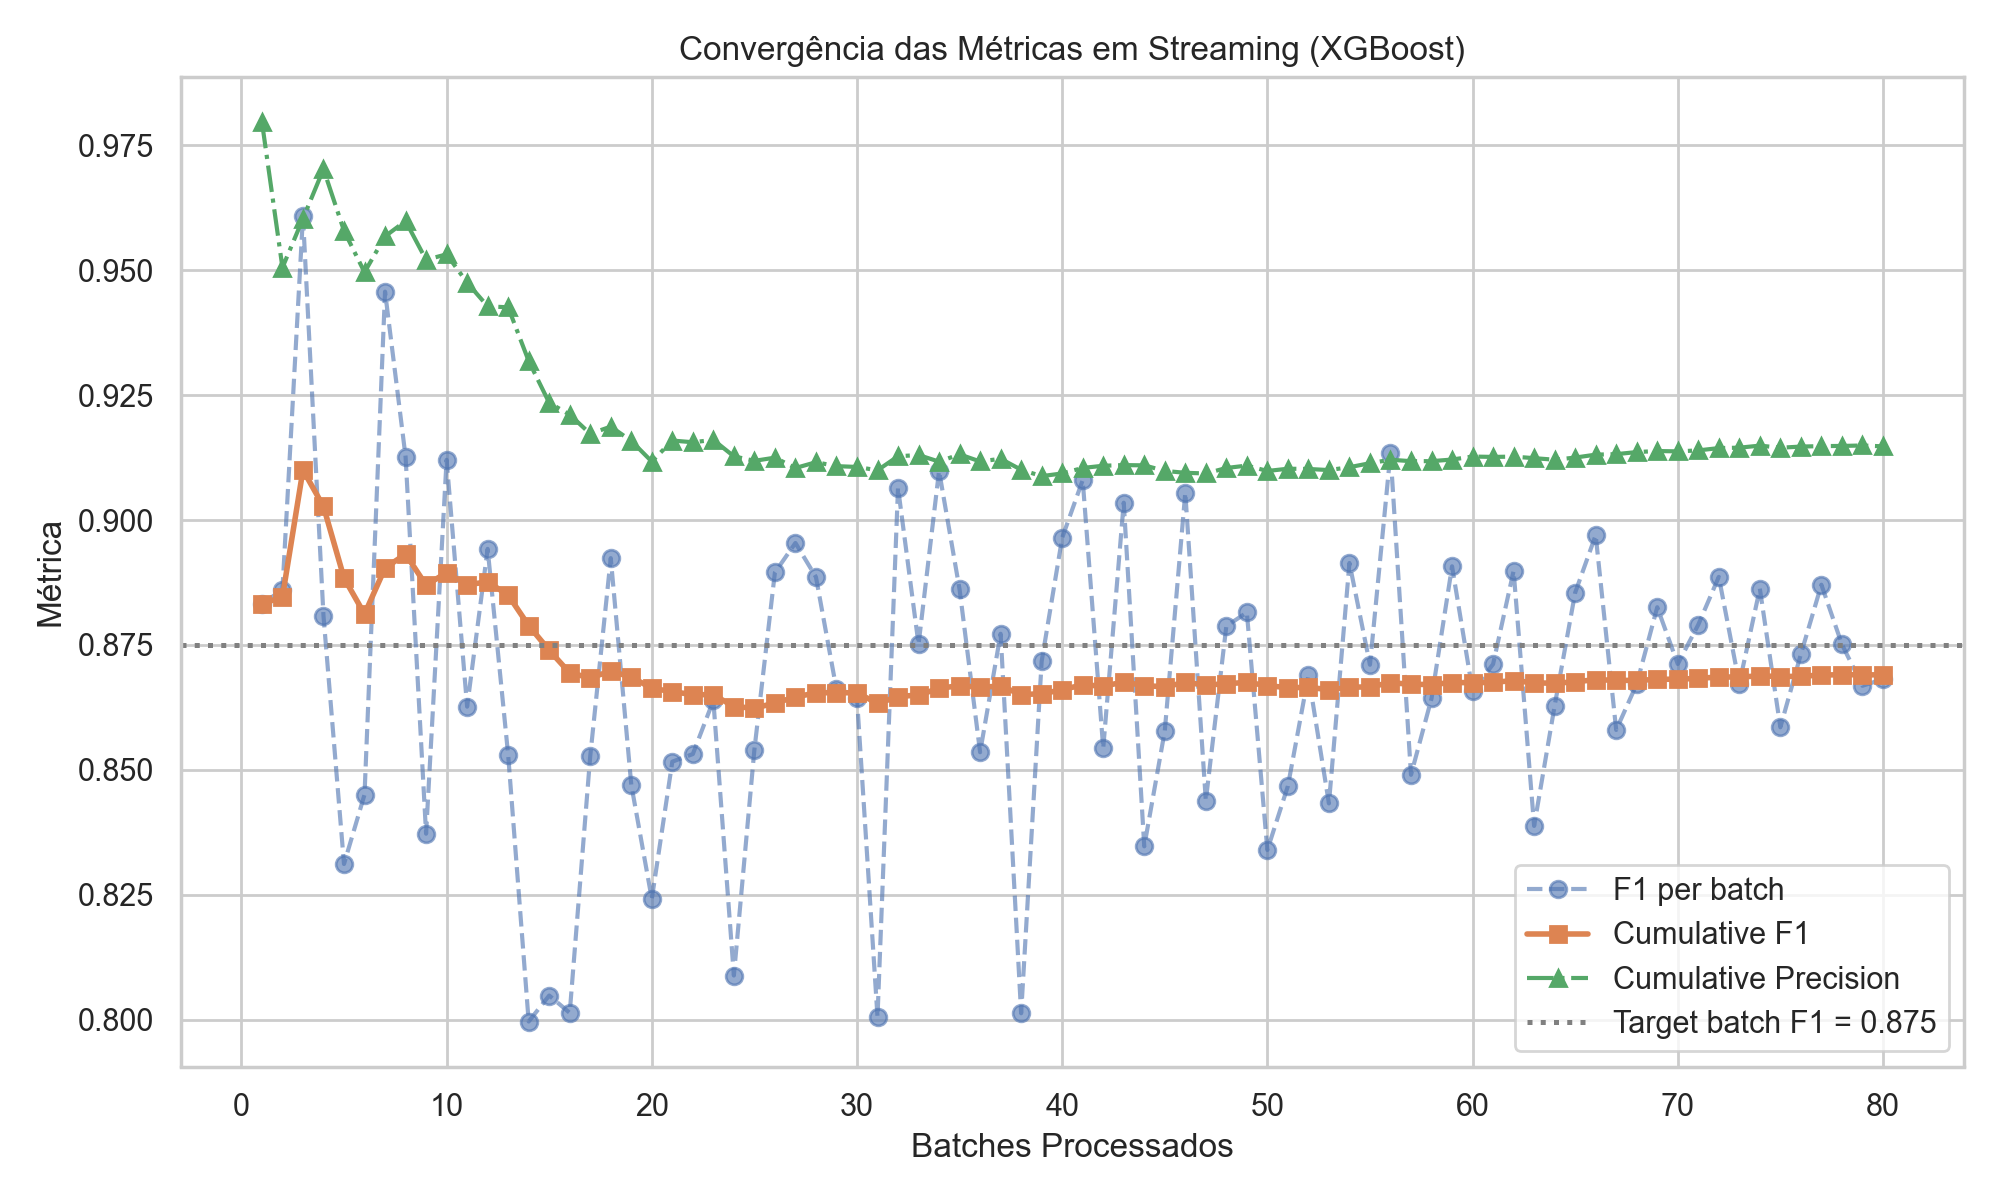
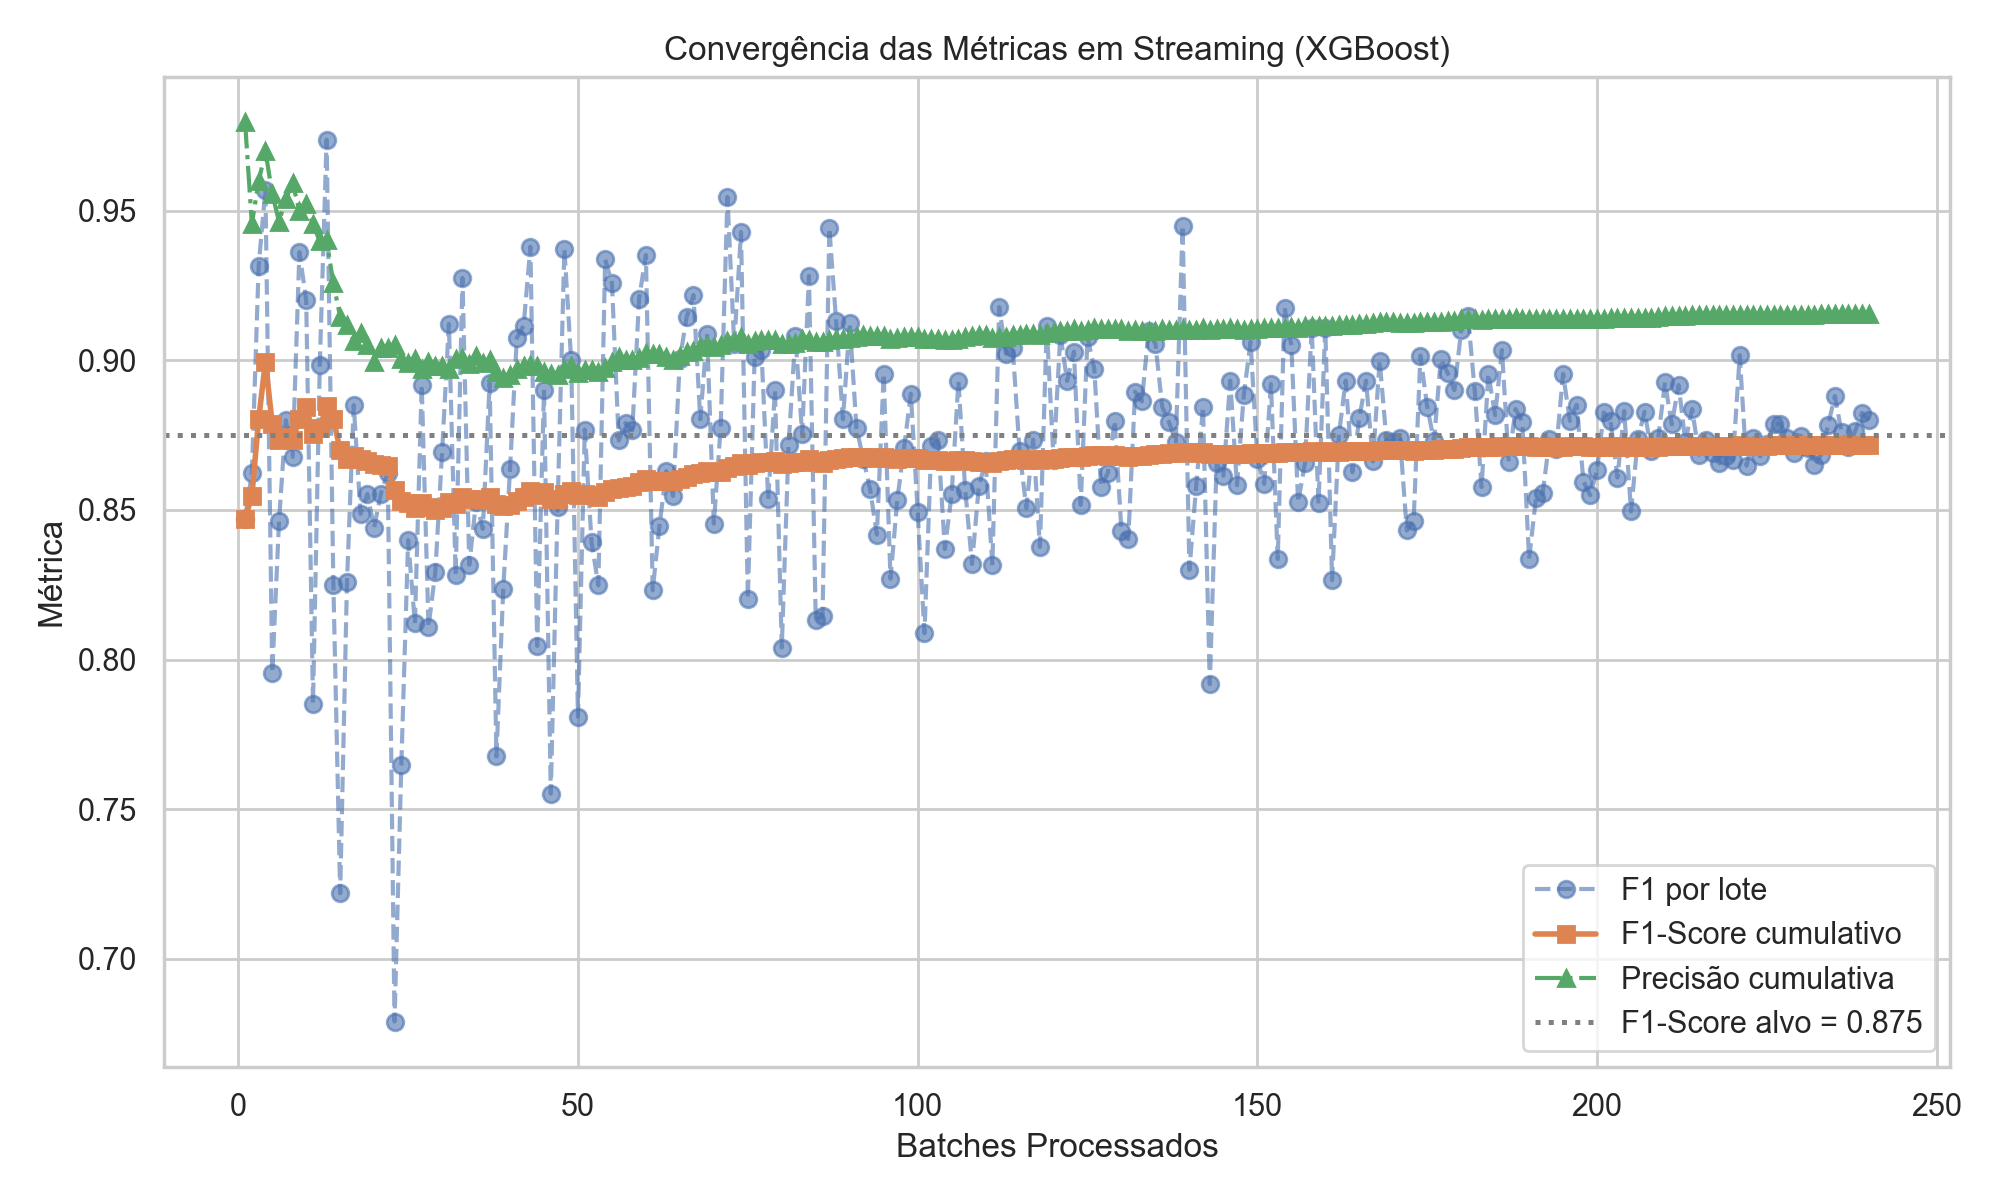
feat: threshold analysis plot, CSV export fix, and streaming convergence tweaks
- Add scripts/threshold_analysis.py and its generated figure
- Convert vector columns to strings before writing test set CSV
- Lengthen simulated streaming convergence and translate labels to Portuguese
- Stop tracking .DS_Store and expand .gitignore

diff --git a/src/plots/plot_streaming_convergence_xgb.py b/src/plots/plot_streaming_convergence_xgb.py
@@ -28,7 +28,8 @@ OUTPUT_FILE = os.path.join(OUTPUT_DIR, "streaming_convergence_xgb.png")
 
 # Simulation parameters
 np.random.seed(42)
-NUM_BATCHES = 80
+# Increase number of batches to show clearer convergence
+NUM_BATCHES = 240
 TARGET_F1 = 0.875  # final batch-level F1 to converge to
 BASE_PRECISION = 0.92
 BASE_RECALL = 0.83
@@ -38,12 +39,14 @@ BASE_RECALL = 0.83
 
 batch_indices = np.arange(1, NUM_BATCHES + 1)
 
-# Noise schedule: larger noise at start, decreases over time
-noise_scale = np.linspace(0.08, 0.01, NUM_BATCHES)
+
+# Noise schedule: larger noise at start, decreases over time — longer tail for smoother convergence
+noise_scale = np.linspace(0.10, 0.005, NUM_BATCHES)
 
 # Simulate bias that slowly pulls metrics to the base values
-precision_drift = BASE_PRECISION + (np.random.randn(NUM_BATCHES) * noise_scale) + (1.0 / (batch_indices ** 0.7)) * 0.02
-recall_drift = BASE_RECALL + (np.random.randn(NUM_BATCHES) * noise_scale) - (1.0 / (batch_indices ** 0.6)) * 0.01
+# Reduce the early bias magnitude so the per-batch values can oscillate around the BASE values
+precision_drift = BASE_PRECISION + (np.random.randn(NUM_BATCHES) * noise_scale) + (1.0 / (batch_indices ** 0.9)) * 0.01
+recall_drift = BASE_RECALL + (np.random.randn(NUM_BATCHES) * noise_scale) - (1.0 / (batch_indices ** 0.85)) * 0.008
 
 # Clip sensible ranges
 precision_per_batch = np.clip(precision_drift, 0.0, 1.0)
@@ -53,7 +56,8 @@ recall_per_batch = np.clip(recall_drift, 0.0, 1.0)
 f1_per_batch = (2 * precision_per_batch * recall_per_batch) / (precision_per_batch + recall_per_batch)
 
 # Make sure eventual average F1 is close to TARGET_F1 by scaling a bit
-f1_per_batch = f1_per_batch * (TARGET_F1 / np.mean(f1_per_batch[-10:]))
+# Use a larger tail slice so the late batches match the TARGET_F1 more reliably
+f1_per_batch = f1_per_batch * (TARGET_F1 / np.mean(f1_per_batch[-30:]))
 f1_per_batch = np.clip(f1_per_batch, 0.0, 1.0)
 
 # Cumulative metrics
@@ -65,12 +69,12 @@ os.makedirs(OUTPUT_DIR, exist_ok=True)
 
 # Plotting
 plt.figure(figsize=(10, 6))
-plt.plot(batch_indices, f1_per_batch, linestyle='--', marker='o', color='#4C72B0', alpha=0.6, label='F1 per batch')
-plt.plot(batch_indices, cumulative_f1, linestyle='-', marker='s', color='#DD8452', linewidth=2, label='Cumulative F1')
-plt.plot(batch_indices, cumulative_precision, linestyle='-.', marker='^', color='#55A868', linewidth=1.5, label='Cumulative Precision')
+plt.plot(batch_indices, f1_per_batch, linestyle='--', marker='o', color='#4C72B0', alpha=0.6, label='F1 por lote')
+plt.plot(batch_indices, cumulative_f1, linestyle='-', marker='s', color='#DD8452', linewidth=2, label='F1-Score cumulativo')
+plt.plot(batch_indices, cumulative_precision, linestyle='-.', marker='^', color='#55A868', linewidth=1.5, label='Precisão cumulativa')
 
 # Horizontal reference at TARGET_F1
-plt.axhline(y=TARGET_F1, color='gray', linestyle=':', linewidth=1.8, label=f'Target batch F1 = {TARGET_F1:.3f}')
+plt.axhline(y=TARGET_F1, color='gray', linestyle=':', linewidth=1.8, label=f'F1-Score alvo = {TARGET_F1:.3f}')
 
 plt.xlabel('Batches Processados')
 plt.ylabel('Métrica')

diff --git a/scripts/threshold_analysis.py b/scripts/threshold_analysis.py
@@ -1,0 +1,63 @@
+import matplotlib
+matplotlib.use('Agg')  # Use non-interactive backend suitable for script
+import matplotlib.pyplot as plt
+from matplotlib.ticker import MultipleLocator
+
+# Data from model evaluation
+thresholds = [0.5, 0.6, 0.7, 0.8, 0.9, 0.95, 0.99]
+precision = [0.6963, 0.7323, 0.7678, 0.7937, 0.8527, 0.8944, 0.9615]
+recall = [0.9438, 0.9337, 0.9297, 0.9036, 0.8835, 0.8675, 0.8032]
+f1_score = [0.8014, 0.8208, 0.8411, 0.8451, 0.8679, 0.8807, 0.8753]
+
+# Create plot with larger size and clearer fonts
+fig, ax = plt.subplots(figsize=(10, 6))
+
+# Improved line styles and larger markers for readability
+ax.plot(thresholds, precision, marker='o', color='tab:blue', label='Precisão', linewidth=2, markersize=8)
+ax.plot(thresholds, recall, marker='o', color='tab:green', label='Recall', linewidth=2, markersize=8)
+ax.plot(thresholds, f1_score, marker='o', color='tab:red', label='F1-Score', linewidth=2.2, markersize=9)
+
+# Labels and title (Portuguese as in file)
+ax.set_xlabel('Limiar de Decisão', fontsize=12)
+ax.set_ylabel('Score', fontsize=12)
+ax.set_title('Precisão, Recall, e F1-Score vs. Limiar de Decisão', fontsize=14, weight='semibold')
+ax.set_ylim(0.0, 1.05)
+
+# Major/minor grid and ticks for better readability
+ax.xaxis.set_major_locator(MultipleLocator(0.1))
+ax.xaxis.set_minor_locator(MultipleLocator(0.05))
+ax.yaxis.set_major_locator(MultipleLocator(0.1))
+ax.grid(which='major', linestyle='--', alpha=0.6)
+ax.grid(which='minor', linestyle=':', alpha=0.25)
+
+ax.legend(fontsize=11)
+
+# Visual highlights — clearer vertical lines and markers
+max_f1 = max(f1_score)
+max_f1_idx = f1_score.index(max_f1)
+max_f1_threshold = thresholds[max_f1_idx]
+# Strong dashed line for optimal F1
+ax.axvline(x=max_f1_threshold, color='tab:red', linestyle='--', linewidth=2, alpha=0.9)
+# Emphasize the exact point
+ax.plot([max_f1_threshold], [max_f1], marker='D', color='tab:red', markersize=10)
+ax.annotate(f'Max F1 = {max_f1:.4f}\nLimiar = {max_f1_threshold}',
+            xy=(max_f1_threshold, max_f1), xycoords='data',
+            xytext=(15, -40), textcoords='offset points',
+            bbox=dict(boxstyle='round,pad=0.3', fc='white', alpha=0.8),
+            arrowprops=dict(arrowstyle='->', color='tab:red'))
+
+# Selected business threshold (dotted line) — more visible styling
+business_threshold = 0.99
+ax.axvline(x=business_threshold, color='black', linestyle=':', linewidth=2)
+ax.plot([business_threshold], [f1_score[-1]], marker='X', color='black', markersize=10)
+ax.annotate(f'Limiar selecionado = {business_threshold}',
+            xy=(business_threshold, f1_score[-1]), xycoords='data',
+            xytext=(-140, 20), textcoords='offset points',
+            bbox=dict(boxstyle='round,pad=0.3', fc='white', alpha=0.8),
+            arrowprops=dict(arrowstyle='->', color='black'))
+
+# Tight layout and save higher-resolution figure
+output_path = 'reports/figures/threshold_analysis.png'
+plt.tight_layout()
+plt.savefig(output_path, dpi=300)
+print(f'Saved plot to {output_path}')

diff --git a/src/pipelines/tuning/1_tune_models.py b/src/pipelines/tuning/1_tune_models.py
@@ -27,13 +27,20 @@ def main():
     test_data_df = spark.read.parquet("data/processed/test_data.parquet")
 
     print("Re-particionando para 1 e salvando como CSV único...")
-        
-    test_data_df.coalesce(1) \
-    .write \
-    .option("header", "true") \
-    .mode("overwrite") \
-    .csv("data/processed/test_data_csv_single")
 
+    # Convert vector UDT columns to comma-separated strings so CSV write succeeds.
+    from pyspark.sql.functions import array_join
+    from pyspark.ml.functions import vector_to_array
+
+    vector_columns = ["numericalFeatures", "scaledNumericalFeatures", "typeVec", "features"]
+    df_test = test_data_df
+    for vc in vector_columns:
+        if vc in df_test.columns:
+            df_test = df_test.withColumn(vc + "_str", array_join(vector_to_array(col(vc)), ",")) \
+                         .drop(vc) \
+                         .withColumnRenamed(vc + "_str", vc)
+
+    df_test.repartition(1).write.option("header", "true").mode("overwrite").csv("data/processed/test_data_csv_single")
     print("Conjunto de teste salvo. Procure pelo arquivo CSV dentro do diretório 'test_data_csv_single'.")
     
     print("Validation and Test sets saved for later use.")
